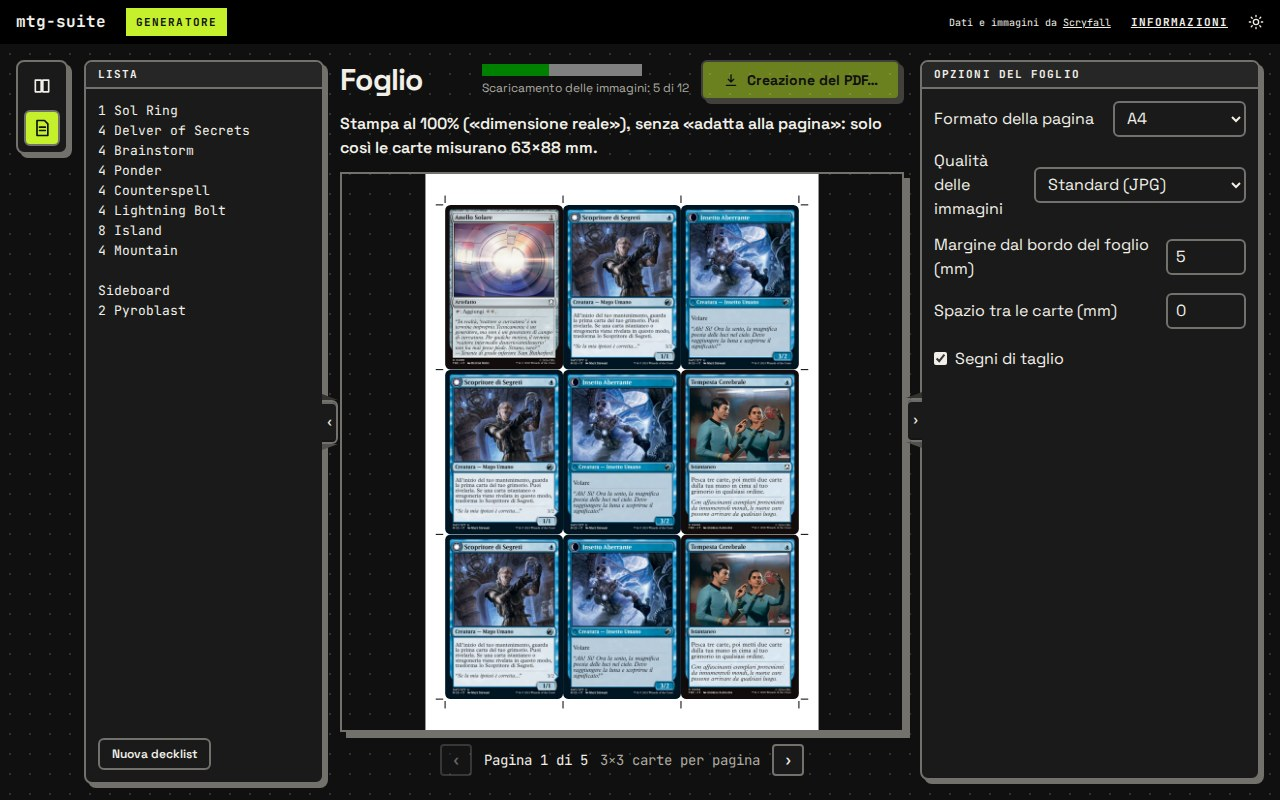
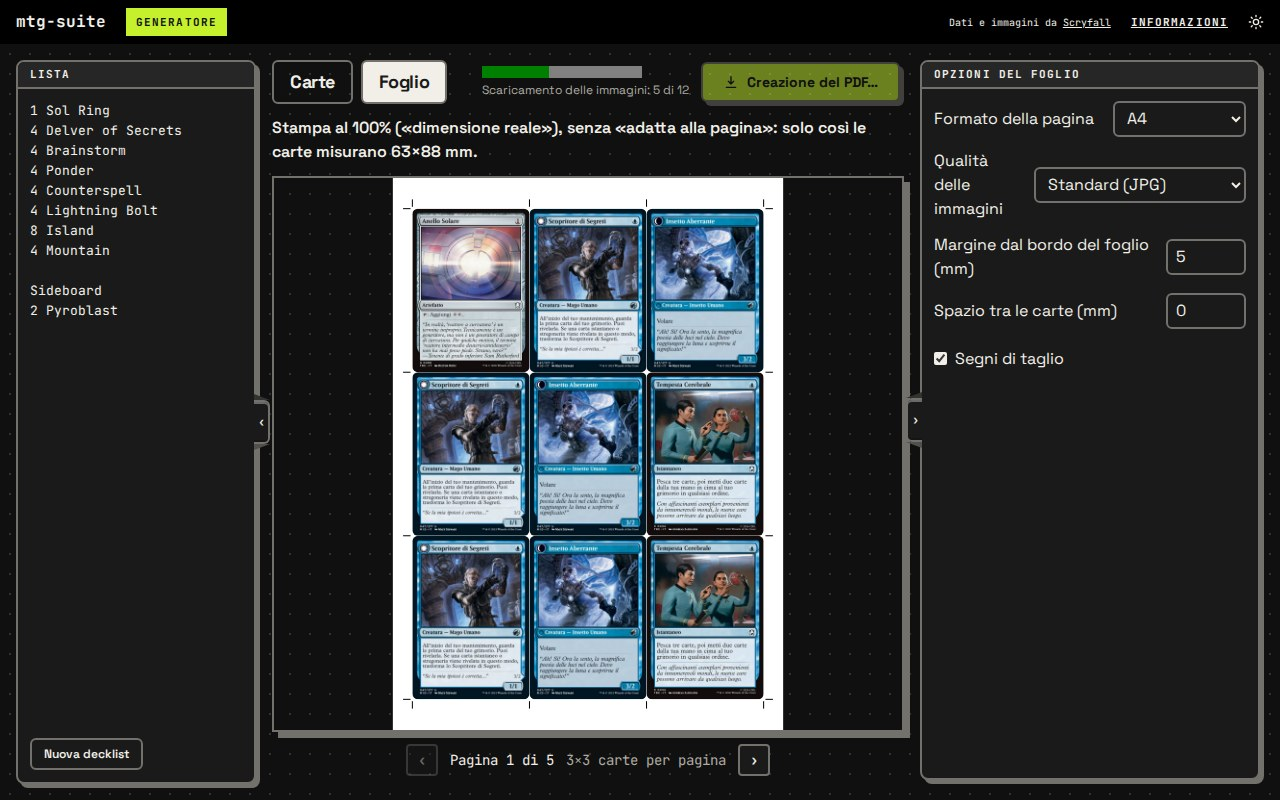
chore: reach the sheet through its tab in the tutorial screenshots, and take them again

Changed region(s): [[0.0, 0.0625, 0.6875, 1.0], [0.0, 0.9062, 0.1562, 1.0]]

diff --git a/scripts/landing-screenshots.js b/scripts/landing-screenshots.js
@@ -90,7 +90,7 @@ const HOW_TO_REACH_STEP = {
     await waitUntilEverythingIsOnScreen(page);
   },
   async setUpSheet(page) {
-    await page.getByRole('button', { name: 'Foglio' }).click();
+    await page.getByRole('tab', { name: 'Foglio' }).click();
     await page.getByText('Pagina 1 di').waitFor();
     await waitUntilEverythingIsOnScreen(page);
   },
